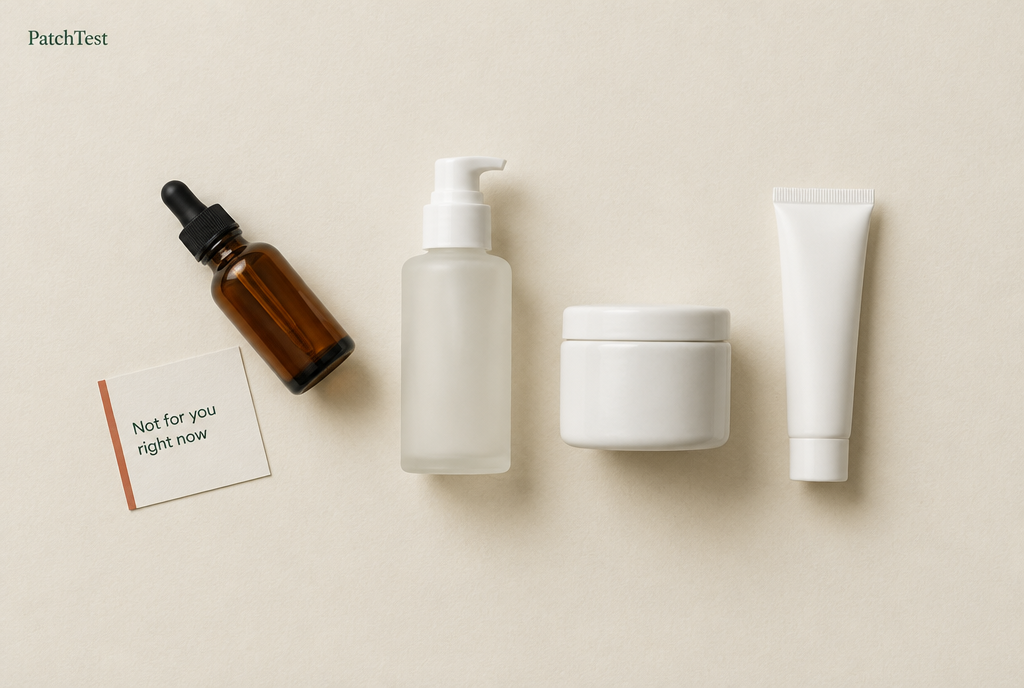
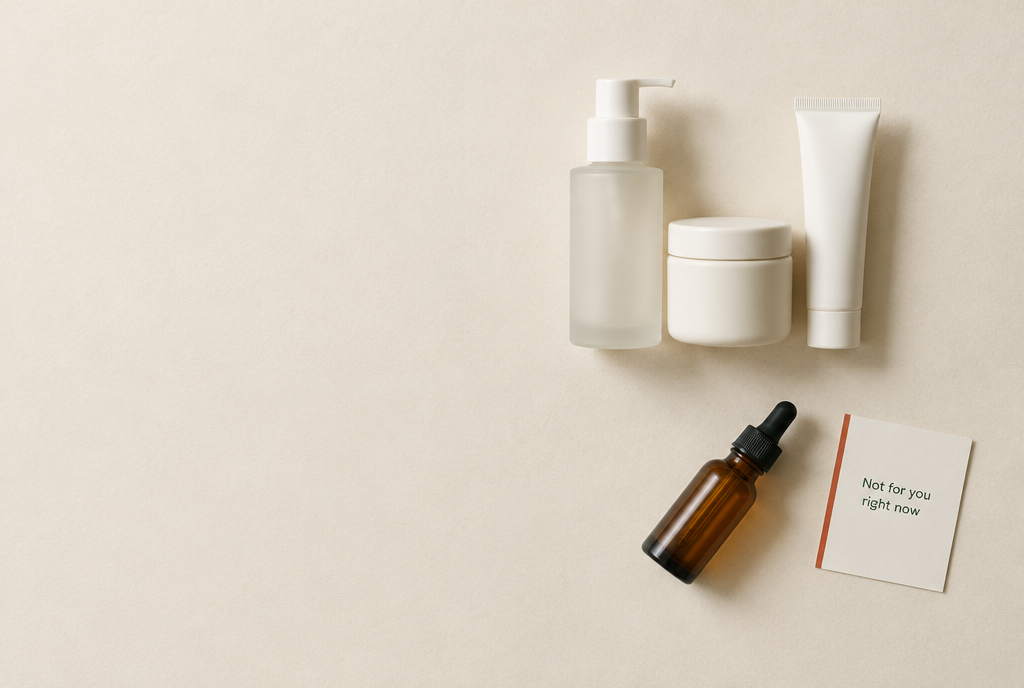
Make the cover say what the product is
The first one was a pretty still life that could have belonged to any skincare
brand. A gallery cover gets about a second to land the pitch, and that one
landed nothing.

New art from Higgsfield, prompted so the objects sit on the right and the left
half stays empty paper, with three containers together and one set apart beside
a "Not for you right now" card — the product in one picture. The headline, the
four verdicts and the footer are set over it in the site's own typefaces by
scripts/gallery-cover.mjs, rather than asked of the image model: a cover has to
spell a long sentence correctly and sit in the product's own type, and neither
is worth leaving to a sampler.

The footer names both YouCam APIs, which matters for this particular gallery.

Checked at 460px, the width a gallery grid renders, where the headline is still
the first thing read. Contrast-swept the art: no hallucinated lettering, no
label or trade dress on any container.

Claude-Session: https://claude.ai/code/session_01B3ZBHnzHYM7nGW6UrQkoJq

diff --git a/docs/gallery/README.md b/docs/gallery/README.md
@@ -25,16 +25,30 @@ node scripts/gallery.mjs
 The extension pane is captured with the extension actually installed in the
 browser, the same way `scripts/test-extension.mjs` does it.
 
-**The cover is generated art.** It was made with Higgsfield (`gpt_image_2_5`) and
-is an illustration, not a photograph: no real person, place or product appears in
-it, and every container in it is deliberately blank, with no label, logo or trade
-dress of any kind. The unmodified generator output is kept at
-`source/cover-generated-1024.png`, because a generative API bills per call and
-does not return the same image twice; `scripts/gallery-cover.mjs` crops it to an
-exact 3:2 and resizes it.
+**The cover is generated art with the pitch set over it.** The photograph was made
+with Higgsfield (`gpt_image_2_5`), prompted so the objects sit on the right and
+the left half stays empty paper, and it is an illustration rather than a
+photograph of anything real: no real person, place or product appears in it, and
+every container is deliberately blank, with no label, logo or trade dress of any
+kind. Three stay together and one is set apart with a card beside it, which is
+the product in one picture.
 
-One note on that, since it is the sort of thing that is easy to miss: the 2K model
-upscale of this cover came back with scrawled lettering hallucinated into the
-blank paper at the bottom. It was faint, but it read as handwriting. The cover
-here is a plain Lanczos resize of the original instead, which is very slightly
-softer and has nothing in it that nobody wrote.
+The headline, the four verdicts and the footer are set by
+`scripts/gallery-cover.mjs` in the site's own typefaces rather than asked of the
+image model. A cover has to spell a long sentence correctly and sit in the
+product's own type, and neither is worth leaving to a sampler. Rebuild it with:
+
+```bash
+node scripts/gallery-cover.mjs docs/gallery/source/cover-generated-1024.png
+```
+
+The unmodified generator output is kept at `source/cover-generated-1024.png`,
+because a generative API bills per call and does not return the same image twice.
+
+Two notes, since both are easy to miss. The art is resized with a plain Lanczos
+filter and not a model upscale: the 2K upscale of an earlier cover came back with
+scrawled lettering hallucinated into the blank paper, faint but legible as
+handwriting, and invented text on a submission cover is worse than a slightly
+softer one. And the first cover was a pretty still life that said nothing &mdash;
+it could have belonged to any skincare brand. A gallery cover has about one second
+to land the pitch, which is why this one carries the headline.
